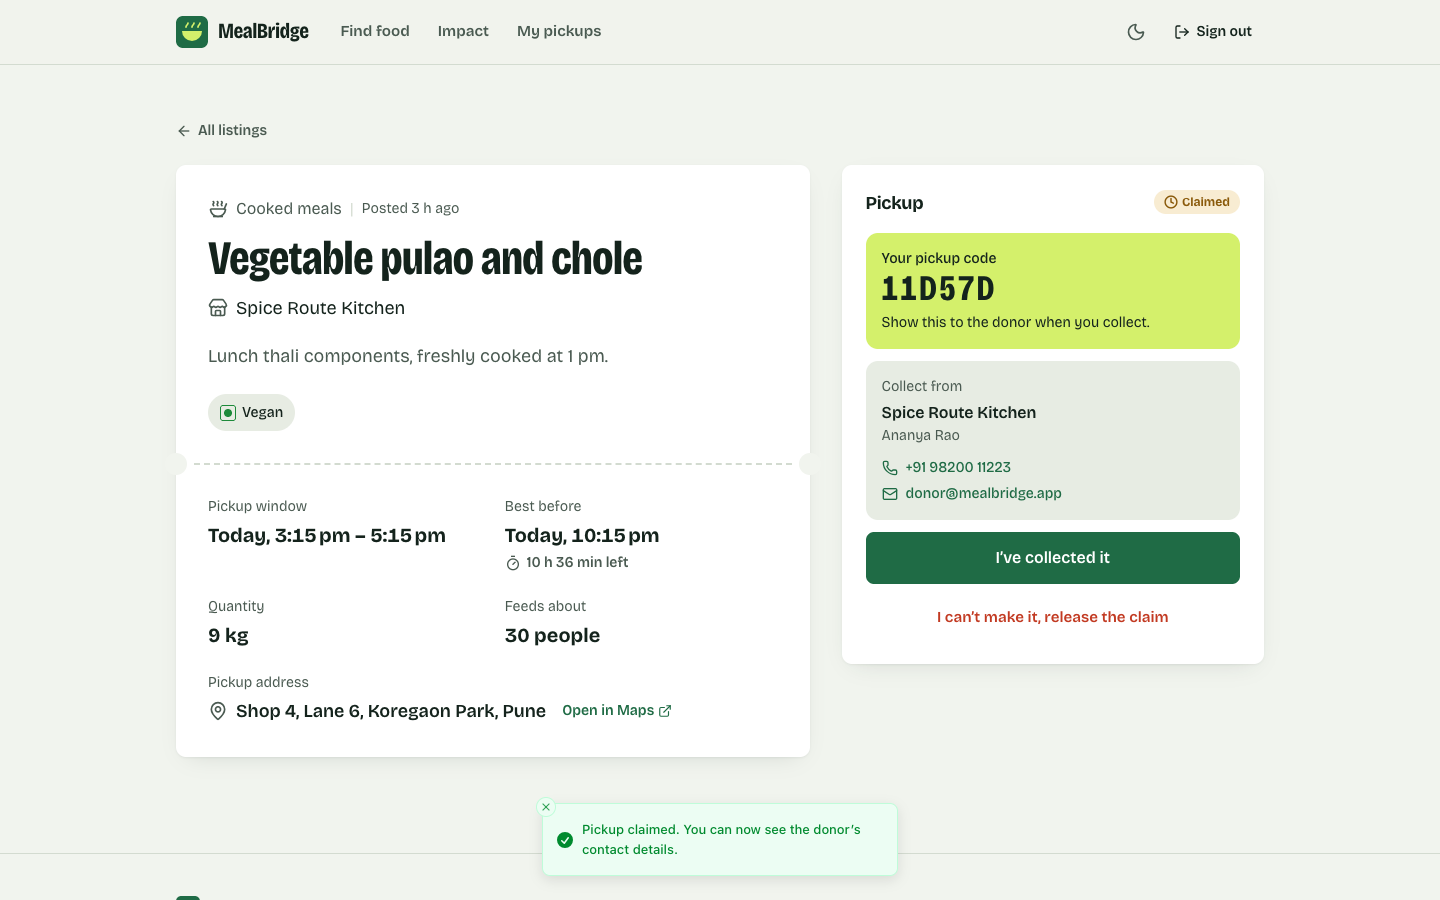
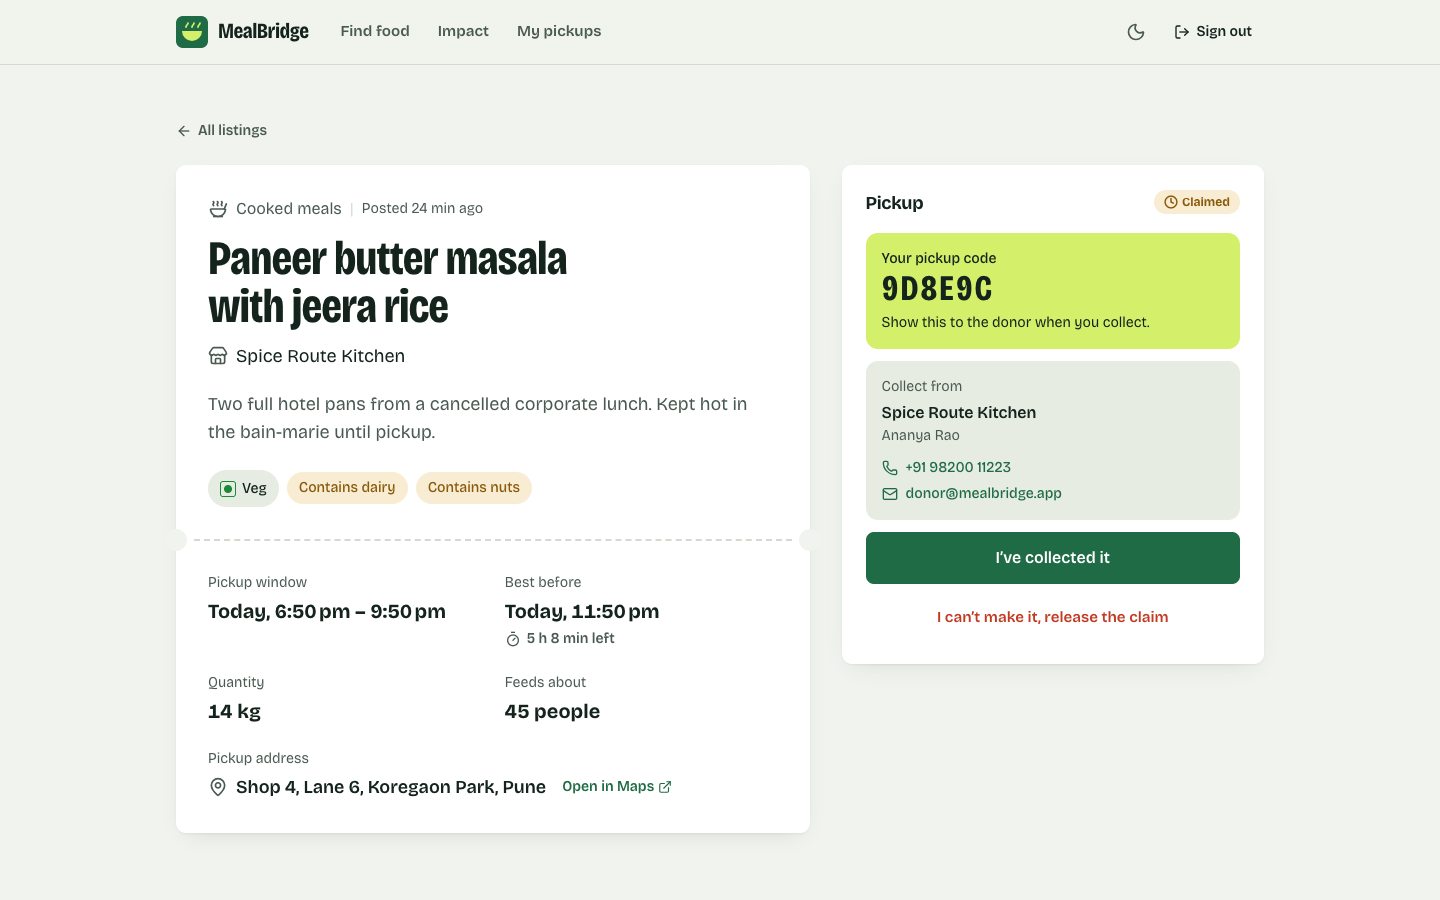
docs: refresh README and screenshots
Fresh screenshots from a seeded local run, security notes, limitations and
roadmap, accurate test count.

diff --git a/README.md b/README.md
@@ -1,17 +1,19 @@
 # MealBridge
 
-**Rescue surplus food before it spoils.** MealBridge connects restaurants, hostel messes, caterers and bakeries that have leftover food with NGOs, shelters and volunteers nearby who can collect it and feed people.
+[![CI](https://github.com/pushpam2404/mealbridge/actions/workflows/ci.yml/badge.svg)](https://github.com/pushpam2404/mealbridge/actions/workflows/ci.yml)
+
+MealBridge connects restaurants, hostel messes, caterers and bakeries that have leftover food with NGOs, shelters and volunteers nearby who can collect it. It is a MERN app (MongoDB, Express, React, Node) built for the Web Application Framework course.
 
 | | |
 |---|---|
-| **Live app** | https://mealbridge-app.vercel.app |
-| **Source** | https://github.com/pushpam2404/mealbridge |
-| **Course** | Web Application Framework |
-| **Student** | Pushpam Raj Satyarthi |
-| **Roll number** | 2024107717 |
-| **Branch** | CSE-Core |
+| Live app | https://mealbridge-app.vercel.app |
+| Source | https://github.com/pushpam2404/mealbridge |
+| Course | Web Application Framework |
+| Student | Pushpam Raj Satyarthi |
+| Roll number | 2024107717 |
+| Branch | CSE-Core |
 
-**Try it without signing up:** open the app, go to *Sign in*, and use **Try as a kitchen** or **Try as an NGO**. Both demo accounts use the password `demo1234`.
+To try it without signing up, open the app, go to Sign in, and use "Try as a kitchen" or "Try as an NGO". Both demo accounts use the password `demo1234`.
 
 | Role | Email | Organisation |
 |---|---|---|
@@ -24,37 +26,23 @@
 
 ## The problem
 
-India wastes tens of millions of tonnes of food every year, and a large share of it is cooked food from restaurants, hostels, weddings and corporate canteens that was never served. At the same time, NGOs and night shelters struggle to source enough meals. The food usually exists **a few kilometres away**, but nobody knows it's there, and cooked food has a window of only a few hours.
+A lot of cooked food from restaurants, hostels, weddings and canteens is never served, while NGOs and night shelters struggle to source meals. The surplus is usually a few kilometres from someone who needs it, but cooked food only stays safe for a few hours, so nobody finds out in time.
 
-MealBridge closes that gap with a simple, time-aware marketplace:
+MealBridge is a small marketplace built around that time limit:
 
-1. **A kitchen posts its surplus**: what it is, how many people it feeds, the pickup window, and when it stops being safe to eat.
-2. **A nearby NGO claims it.** Claims are atomic, so two NGOs can never claim the same food. Contact details are shared only between the two parties.
-3. **They collect it and confirm.** The meals are added to the public impact report.
+1. A kitchen posts its surplus: what it is, how many people it feeds, the pickup window, and when it stops being safe to eat.
+2. A nearby NGO claims it. Claims are atomic, so two NGOs cannot claim the same food. Contact details are shared only between the two parties.
+3. They collect it and confirm. The meals are added to the public impact report.
 
-Listings automatically come off the board once their best-before time passes.
+Listings come off the board on their own once the best-before time passes.
 
 ## Features
 
-**For donors (kitchens)**
-- Post, edit, cancel and delete surplus food listings (full CRUD)
-- Quick time presets ("Ready now", "After dinner service", "Tomorrow morning")
-- Category, veg / non-veg / vegan marking (Indian FSSAI-style symbol), allergen tags
-- Dashboard tabs for *Waiting for a claim*, *Being collected* and *History*
-- See who is collecting, their phone and email, and a pickup code to verify them
-- Personal impact: meals donated, kg rescued, CO₂e avoided
+Donors (kitchens) can post, edit, cancel and delete listings, use time presets such as "Ready now" or "After dinner service", mark veg / non-veg / vegan with the FSSAI-style symbol, and tag allergens. The dashboard splits listings into waiting for a claim, being collected and history. Once someone claims a listing, the donor sees who is collecting it, their phone and email, and a pickup code to check at handover. There is also a personal impact tally (meals, kg, CO2e).
 
-**For receivers (NGOs and volunteers)**
-- Live board of open listings, soonest-expiring first, with countdown timers
-- Search, city filter, category and food-type filters, sorting, pagination (all reflected in the URL, so filtered views can be shared)
-- One-tap claim with confirmation, release a claim, confirm collection
-- Pickup code and donor contact details once claimed
+Receivers (NGOs and volunteers) see a live board of open listings, soonest-expiring first, with countdown timers. Search, city, category and food-type filters, sorting and pagination all live in the URL, so a filtered view can be shared. Claiming takes one tap plus a confirmation. A claim can be released, and a pickup confirmed once the food is collected.
 
-**For everyone**
-- Public impact report with weekly and per-category charts plus table views
-- Responsive from 360 px phones to wide desktops, with light and dark themes
-- Accessible: semantic HTML, labelled form controls, keyboard-friendly dialogs with focus trapping, skip link, visible focus rings, `prefers-reduced-motion` respected
-- Motion design with [Motion](https://motion.dev): tickets drop onto the pickup board, shared-layout filter chips and tab indicators, animated list changes, spring-based dialogs
+Everyone can open the public impact report, which has weekly and per-category charts, each with a table view. The layout works from 360 px phones to wide desktops, in light and dark themes. Dialogs trap focus, there is a skip link, focus rings are visible, form errors are announced, and `prefers-reduced-motion` is respected. Animation uses [Motion](https://motion.dev): tickets drop onto the pickup board, filter chips and tabs share a moving indicator, dialogs use springs.
 
 ## Tech stack
 
@@ -63,7 +51,8 @@ Listings automatically come off the board once their best-before time passes.
 | Frontend | **React 19**, React Router 8, Vite 8, **Tailwind CSS 4**, Motion (motion.dev), Recharts, lucide-react icons, Sonner toasts |
 | Backend | **Node.js** + **Express 5** (REST API), Zod validation, JWT auth (jsonwebtoken), bcryptjs, Helmet, CORS, express-rate-limit |
 | Database | **MongoDB Atlas** via **Mongoose 9** |
-| Testing | Vitest + Supertest + mongodb-memory-server (23 API tests) |
+| Testing | Vitest, Supertest, mongodb-memory-server |
+| CI | GitHub Actions: lint, tests, build on every push and pull request |
 | Hosting | **Vercel**: static React build plus Express running as a serverless function |
 
 ## Architecture
@@ -87,10 +76,11 @@ flowchart LR
 - One Vercel project serves both halves. `vercel.json` rewrites `/api/*` to the Express function and everything else to the SPA's `index.html`.
 - The Mongoose connection is cached on `globalThis`, so warm serverless invocations reuse it instead of reconnecting.
 - The function runs in Vercel's Mumbai region (`bom1`), next to the Atlas cluster in AWS `ap-south-1`.
-- Locally, `server/server.js` runs the same Express app on port 5050, and Vite proxies `/api` to it.
+- Locally, `server/server.js` runs the same Express app on port 5050, and Vite proxies `/api` to it. If 5050 is taken, set `PORT` and the proxy follows it.
 
 ```
 mealbridge/
+├── .github/workflows/ci.yml     # lint, test, build
 ├── api/index.js                 # Vercel entry: exports the Express app
 ├── server/
 │   ├── server.js                # Local entry: app.listen()
@@ -102,7 +92,7 @@ mealbridge/
 │   │   ├── middleware/          # JWT auth, Zod validation, error handler
 │   │   └── utils/               # impact maths, HttpError
 │   ├── scripts/seed.js          # Demo users and listings
-│   └── tests/                   # Vitest + Supertest API tests
+│   └── tests/                   # Vitest + Supertest API tests, unit tests, CSP guard
 ├── client/
 │   ├── index.html
 │   └── src/
@@ -110,7 +100,7 @@ mealbridge/
 │       ├── components/          # Ticket, Modal, Layout, FoodMark, StatusStamp, ui primitives
 │       ├── context/             # AuthContext (JWT session)
 │       ├── hooks/               # useAsync, useNow, useTheme, useTitle
-│       └── lib/                 # api client, formatting, constants
+│       └── lib/                 # api client, formatting (with tests), constants
 └── vercel.json
 ```
 
@@ -215,7 +205,8 @@ Other scripts:
 
 | Command | What it does |
 |---|---|
-| `npm test` | Runs the API test suite against an in-memory MongoDB |
+| `npm test` | Runs the API tests (against an in-memory MongoDB) and the client unit tests |
+| `npm run lint` | Lints the React app with oxlint |
 | `npm run build` | Builds the React app into `client/dist` |
 | `npm start` | Runs the API only |
 
@@ -224,10 +215,10 @@ Other scripts:
 | Variable | Required | Description |
 |---|---|---|
 | `MONGODB_URI` | yes | MongoDB connection string |
-| `JWT_SECRET` | yes | Secret for signing login tokens |
+| `JWT_SECRET` | yes | Secret for signing login tokens. Use a long random string, for example `openssl rand -base64 48` |
 | `DEMO_MODE` | no | `true` re-posts the demo kitchens' listings with fresh pickup times once they expire or are collected, so the public demo never shows an empty board (checked at most every 5 minutes) |
-| `CORS_ORIGIN` | no | Comma-separated allowed origins (defaults to any, since the frontend is same-origin) |
-| `PORT` | no | Local API port (default 5050) |
+| `CORS_ORIGIN` | no | Comma-separated allowed origins. Defaults to any origin, which is fine here because the frontend is same-origin and auth uses a bearer token, not cookies |
+| `PORT` | no | Local API port (default 5050). The Vite dev proxy reads the same variable |
 
 ## Deployment (Vercel + MongoDB Atlas, both free)
 
@@ -244,7 +235,35 @@ Every push to `main` redeploys automatically.
 npm test
 ```
 
-23 integration tests cover registration and login, validation errors, duplicate emails, ownership rules on update and delete, the claim → complete lifecycle, concurrent claims (only one wins), releasing claims, lazy expiry of stale listings, private contact details, impact statistics, and demo mode.
+There are 40 tests. The API tests run the real Express app against an in-memory MongoDB and cover registration and login, validation errors, duplicate emails, ownership rules, the claim, complete and release lifecycle, two simultaneous claims (only one wins), lazy expiry of stale listings, private contact details, partial updates that must not wipe other fields, forged and expired tokens, operator objects in login bodies, oversized bodies, impact statistics and demo mode. Smaller unit tests cover the impact maths and the client's date and freshness formatting. One test checks that the inline theme script in `client/index.html` still matches the hash allowed by the Content-Security-Policy in `vercel.json`.
+
+GitHub Actions runs lint, the tests and the production build on every push and pull request (`.github/workflows/ci.yml`).
+
+## Security notes
+
+- Request bodies and query strings go through Zod schemas before they reach Mongoose, so objects like `{"$ne": null}` are rejected rather than treated as queries. Search text is regex-escaped.
+- Passwords are hashed with bcrypt. Tokens are HS256 JWTs that expire after 7 days, and the algorithm is pinned when verifying.
+- The auth routes are rate limited (50 requests per 15 minutes per IP). The limiter is in memory, so on Vercel each warm function instance counts separately.
+- The API sends Helmet's headers. The static site gets a Content-Security-Policy and other headers from `vercel.json`.
+- Phone and email are only returned to the donor and the receiver who claimed that listing.
+
+## Limitations
+
+- Tokens live in `localStorage`, so an XSS bug would expose them. The CSP and React's escaping reduce that risk, but an httpOnly cookie would be safer.
+- There is no email verification or password reset, and nothing checks that a donor or NGO is who they say they are. Anyone can register as either.
+- Location is a free-text city, not coordinates, so there is no "near me" search.
+- Listings have no photos.
+- Impact numbers rest on donor estimates and fixed conversion factors.
+- Expired listings are flipped when someone reads the board, not by a scheduled job.
+- The rate limiter is per instance (see above) and there is no limit on other routes.
+
+## Roadmap
+
+- Geocode addresses and sort by distance.
+- Email or WhatsApp notification when a listing is claimed or about to expire.
+- Move the session to an httpOnly cookie with CSRF protection.
+- Photo upload for listings.
+- A shared rate-limit store for the serverless deployment.
 
 ## Screenshots
 
@@ -252,13 +271,17 @@ npm test
 |---|---|
 | ![Browse page](docs/screenshots/browse-desktop.png) | ![Claimed listing with pickup code](docs/screenshots/listing-claimed.png) |
 
-| Donor dashboard | Impact report |
+| Donor dashboard | Post a listing |
 |---|---|
-| ![Donor dashboard](docs/screenshots/dashboard-donor.png) | ![Impact report](docs/screenshots/impact.png) |
+| ![Donor dashboard](docs/screenshots/dashboard-donor.png) | ![Listing editor](docs/screenshots/editor.png) |
 
-| Mobile: home | Mobile: browse | Dark theme |
+| Impact report | Dark theme |
+|---|---|
+| ![Impact report](docs/screenshots/impact.png) | ![Dark theme](docs/screenshots/home-dark.png) |
+
+| Mobile: home | Mobile: browse | Mobile: dashboard |
 |---|---|---|
-| ![Mobile home](docs/screenshots/mobile-home.png) | ![Mobile browse](docs/screenshots/mobile-browse.png) | ![Dark theme](docs/screenshots/home-dark.png) |
+| ![Mobile home](docs/screenshots/mobile-home.png) | ![Mobile browse](docs/screenshots/mobile-browse.png) | ![Mobile dashboard](docs/screenshots/mobile-dashboard.png) |
 
 ## How the impact numbers work
 
